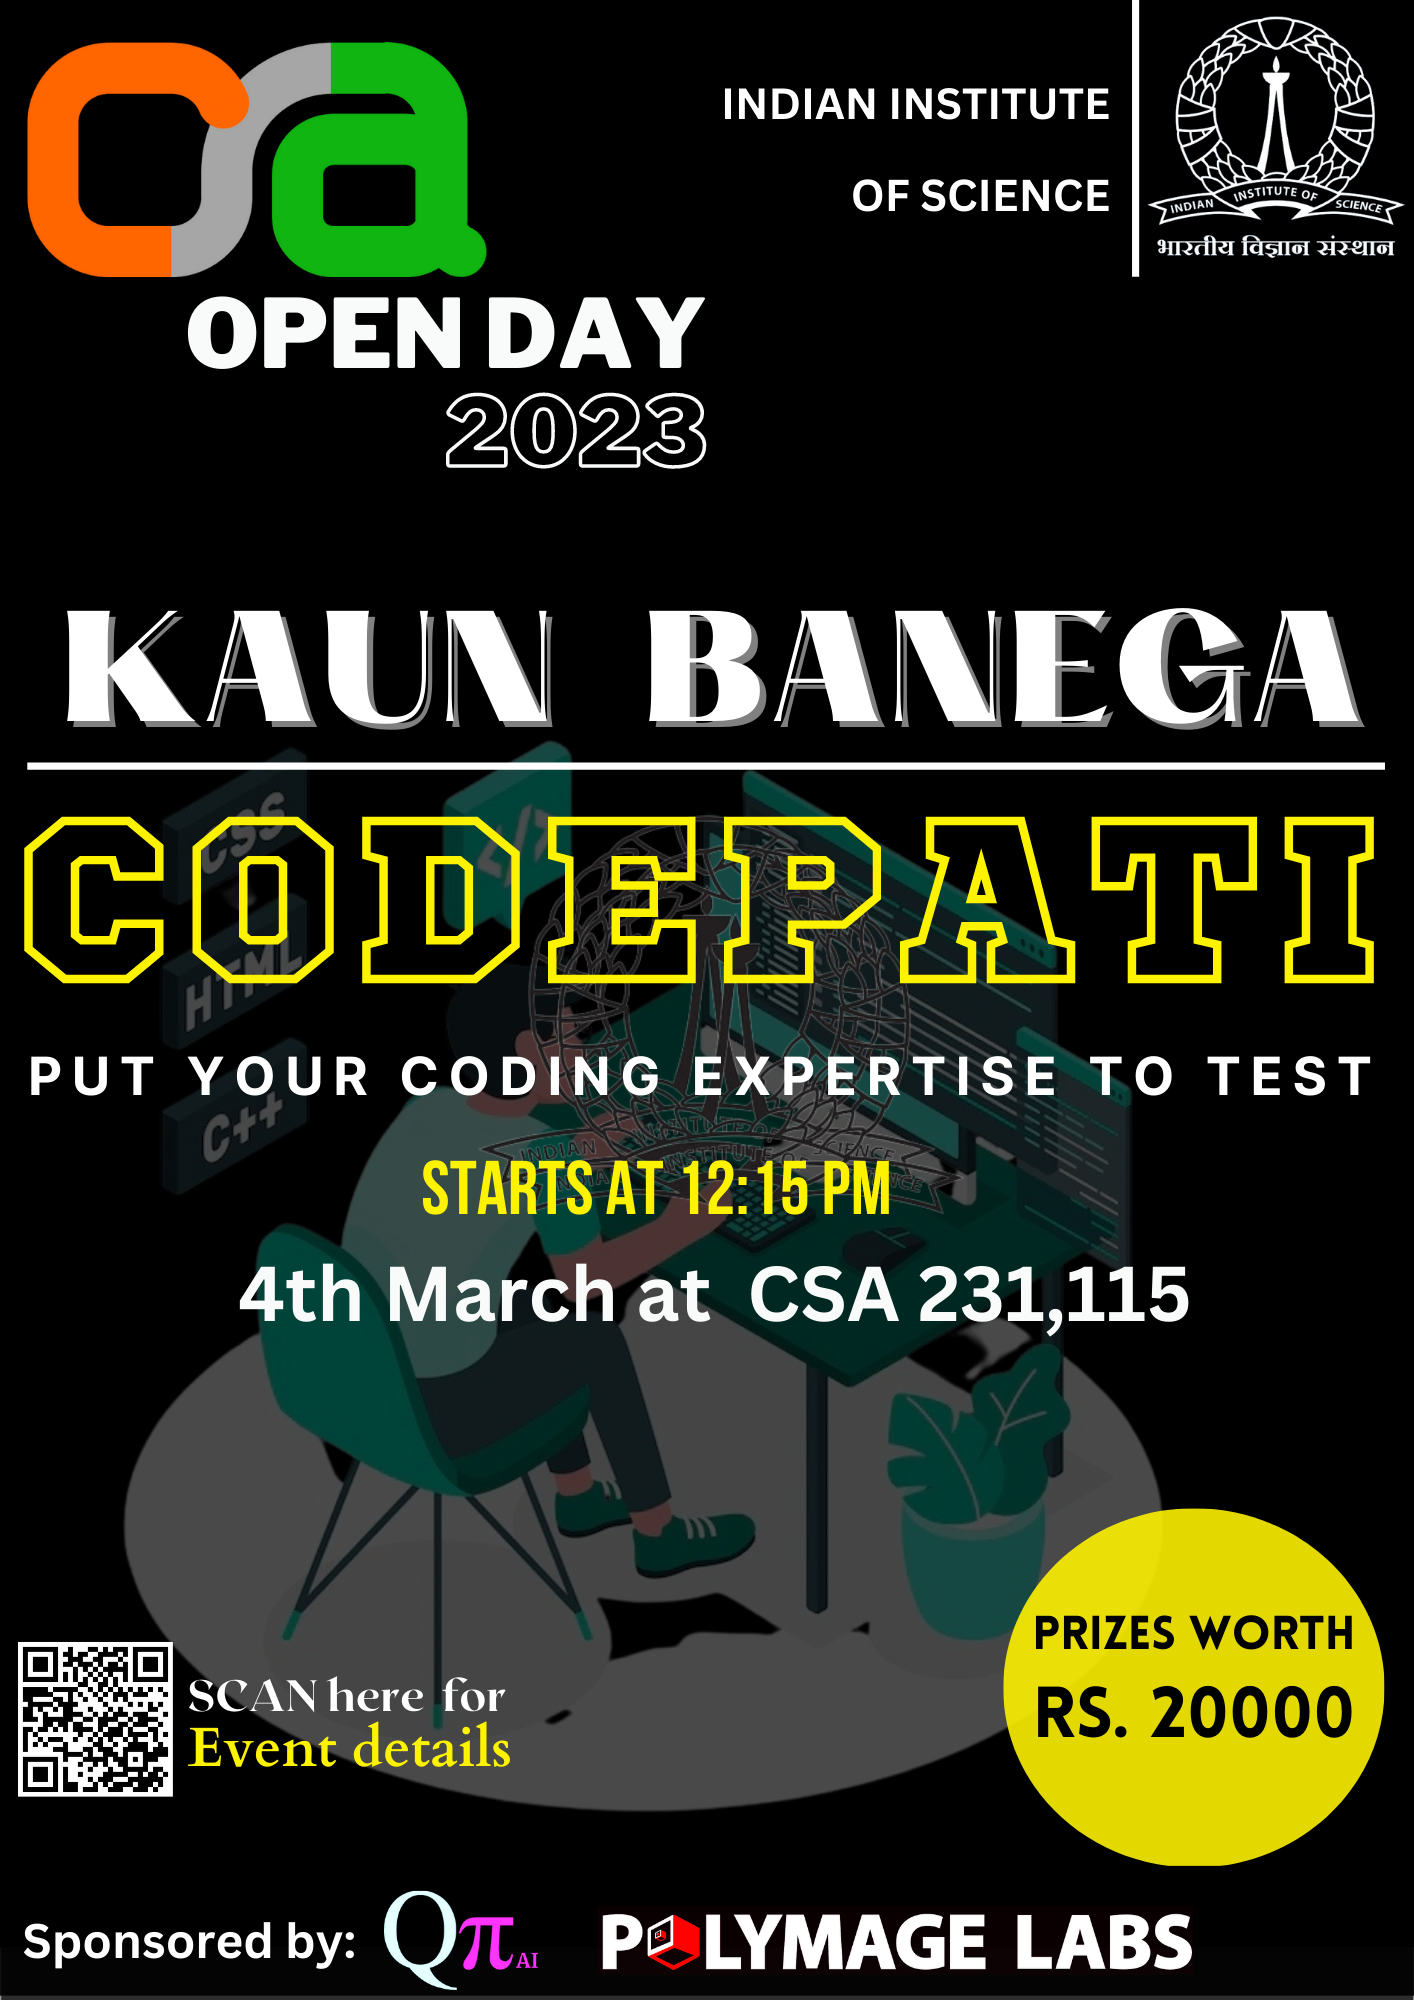
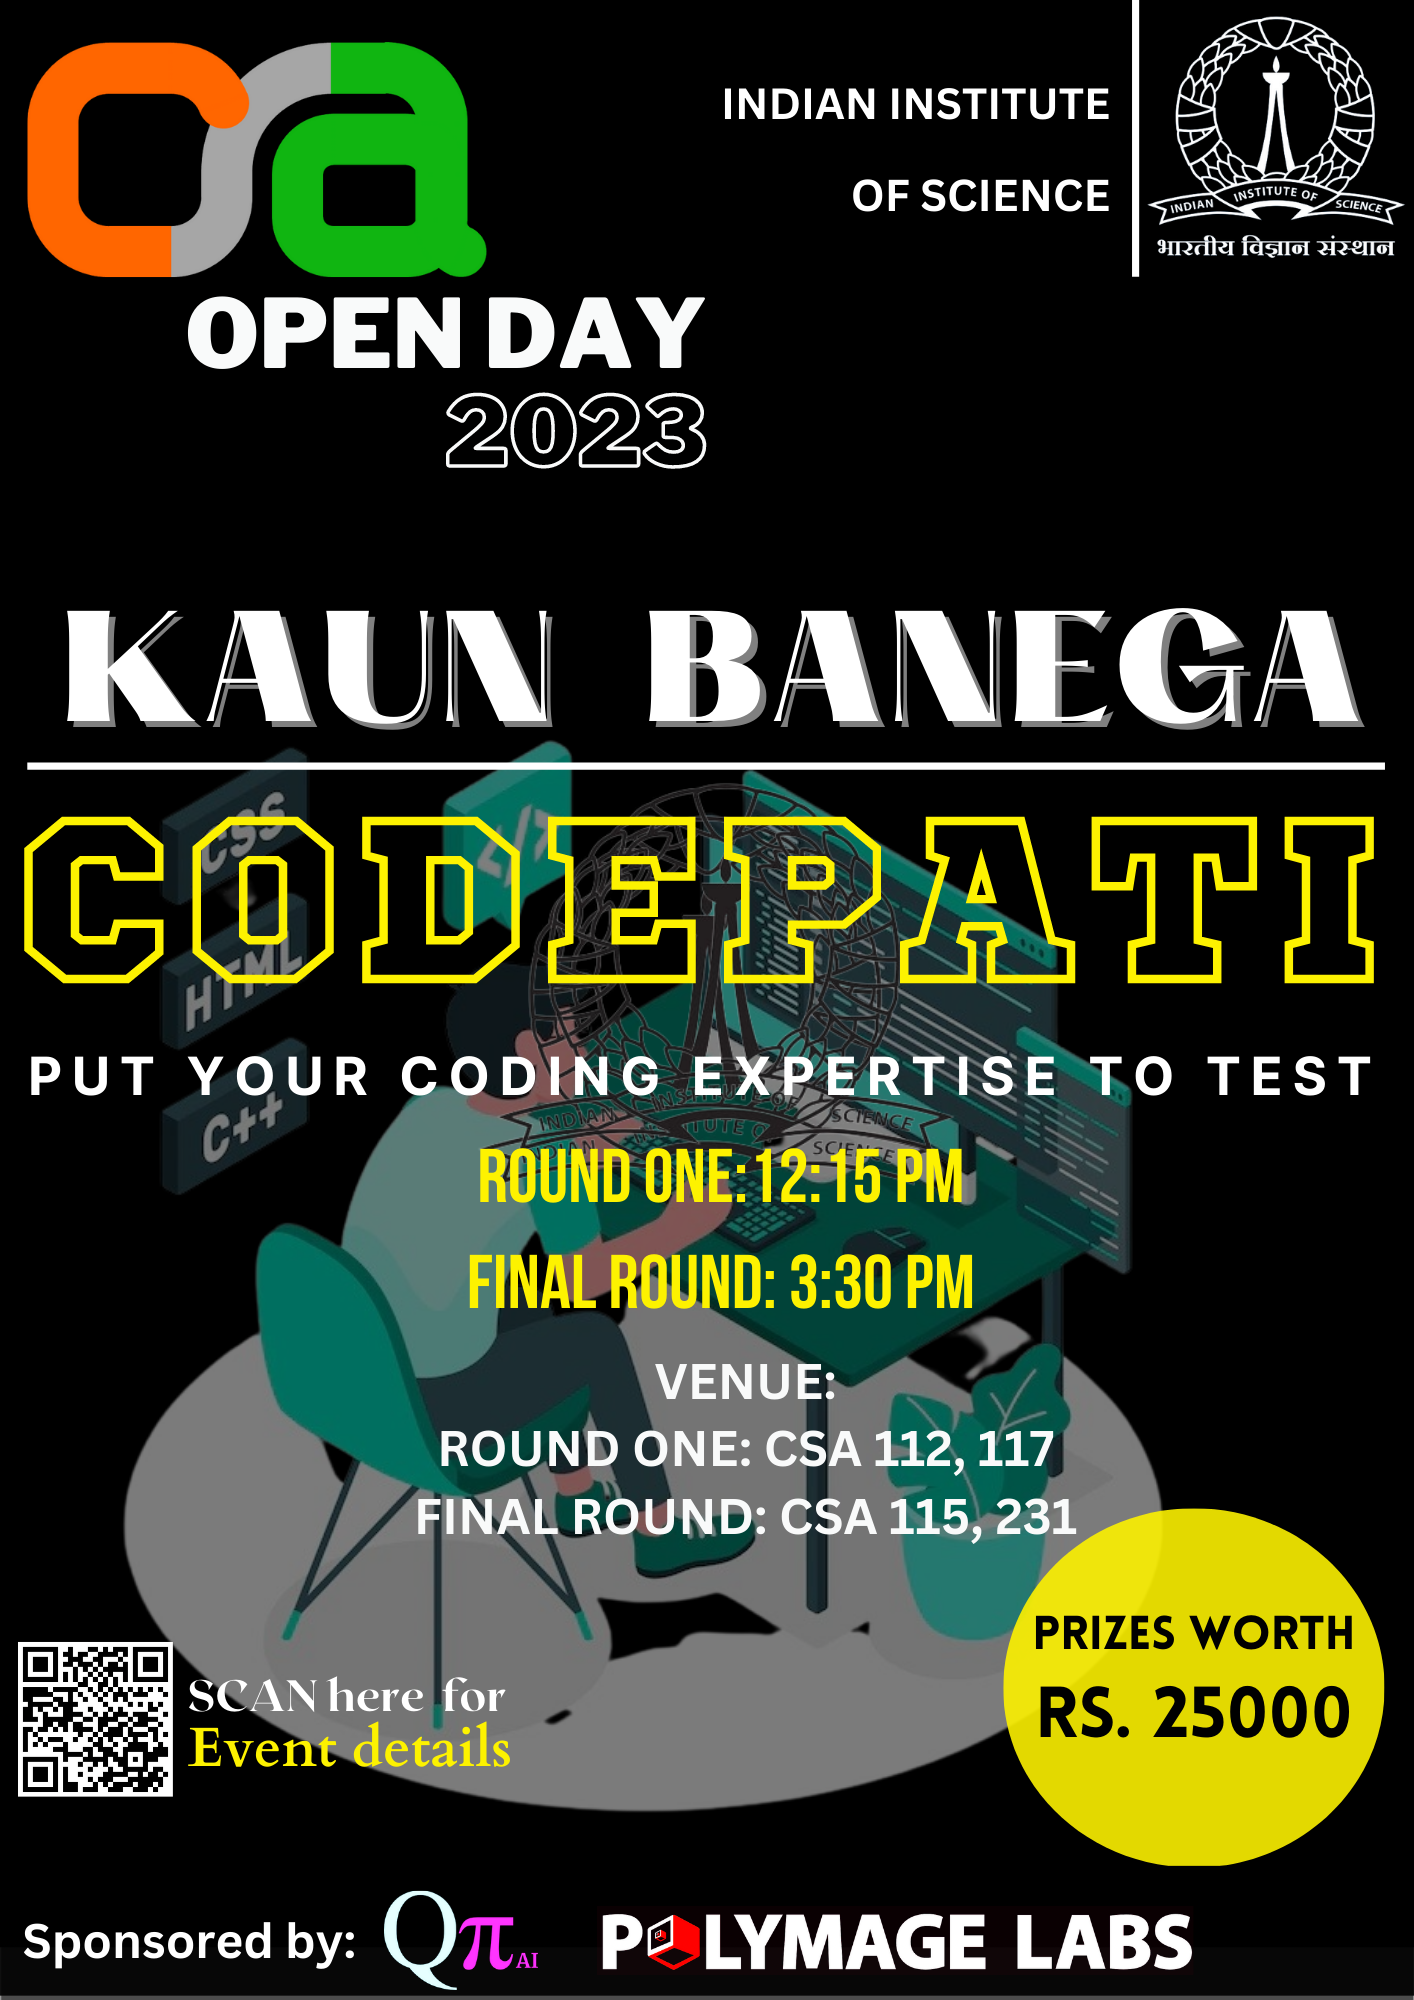
KBC codepati updated

diff --git a/index.html b/index.html
@@ -438,6 +438,11 @@
                                         <li style="text-align: left;">asdsd</li>
 
                                     </ol>-->
+                                    <button class="btn btn-primary bnput-block-level" style="background-color: rgb(103, 80, 164); border: none; width: 100%;" onclick="window.location.href = 'https://forms.gle/ShV4Sd3zAhBQ329fA';">
+                                        Register
+                                     </button>
+                                     <br/>
+                                     <br/>
                                     <h4 class="mb-4" style="text-align: left;">Rules</h4>
                                     <ul class="mb-4">
                                         <li style="text-align: left;">Participants should be enrolled in an educational institution</li>
@@ -448,15 +453,14 @@
                                     </ul>
                                     <h4 class="mb-4" style="text-align: left;">Registration</h4>
                                     <ul class="mb-4">
-                                        <li style="text-align: left;">Fill out the registration form (to be updated)</li>
+                                        <li style="text-align: left;">Fill out the registration form: <a href="https://forms.gle/ShV4Sd3zAhBQ329fA">Link</a></li>
                                         <li style="text-align: left;">Enter the FULL NAME of team members, College/School, Email IDs, and Degree/Class.</li>
                                     </ul>
                                     <h4 class="mb-4" style="text-align: left;">Qualification Round</h4>
                                     <ul class="mb-4">
-                                        <li style="text-align: left;">MCQ-based round, four marks for correct answers and -1 for wrong answers.</li>
-                                        <li style="text-align: left;">Questions will be based on DSA, time complexity analysis, and debugging.</li>
-                                        <li style="text-align: left;">We will share the quiz link with registered teams.</li>
-                                        <li style="text-align: left;">Alternatively, teams may opt to attempt the offline quiz.</li>
+                                        <li style="text-align: left;">MCQ-based round, +1 mark for correct answers and -0.33 for wrong answers.</li>
+                                        <li style="text-align: left;">Questions will be based on problem-solving, algorithms, data structures, time complexity analysis, and debugging.</li>
+                                        <li style="text-align: left;">This will be an offline round.</li>
                                         <li style="text-align: left;">Separate quiz will be held for school and college teams.</li>
                                         <li style="text-align: left;">The duration will be 45 minutes.</li>
                                         <li style="text-align: left;">15 College teams and 15 School teams will qualify for the final round.</li>
@@ -468,22 +472,38 @@
                                         <li style="text-align: left;">The problem set will have 4-6 problems</li>
                                         <li style="text-align: left;">The final rank will be decided by the total time taken to submit the first submission with the maximum score for each problem.</li>
                                         <li style="text-align: left;">Each problem will have time & memory limits for submissions.</li>
-                                        <li style="text-align: left;">Teams are allowed to use a 25-page reference code (PDF is permitted). Teams should upload the reference code in the registration form. (Form response is editable, so the teams may fill out the registration form without reference code and upload the code later).</li>
+                                        <li style="text-align: left;">Each team is allowed to carry with them one soft/hard copy of not more than 25 pages, (font size should be at least 11) that may contain code templates for reference
+                                            <br/>
+                                            <ul>
+                                                <li>This will be scrutinized and in case any violations, we will bar any team from using the same.</li>
+                                                <li>You will be allowed to copy paste code from the soft copy directly if needed.</li>
+                                                <li>Contestants can use their predefined templates.</li>
+                                            </ul>
+                                        </li>
                                         <li style="text-align: left;">Reference code must be submitted at least 1 hour before the Coding round. Teams will be allowed to download the reference code before the Coding round.</li>
+                                        <li style="text-align: left;">The ranklist will be frozen 30 minutes before contest end time, that is at 5:00 pm.</li>
+
+
                                     </ul>
                                     <h4 class="mb-4" style="text-align: left;">Prizes</h4>
                                     <h5 class="mb-4" style="text-align: left;">School Students</h5>
                                     <ul class="mb-4">
-                                        <li style="text-align: left;">1st Prize: Amazon Alexa</li>
-                                        <li style="text-align: left;">2nd Prize: Smartwatch and Earbuds</li>
-                                        <li style="text-align: left;">3rd Prize: RGB Gaming Keyboard and Mouse</li>
+                                        <li style="text-align: left;">1st Prize: ₹ 5000 Amazon Pay Gift Card</li>
+                                        <li style="text-align: left;">2nd Prize: ₹ 3000 Amazon Pay Gift Car</li>
+                                        <li style="text-align: left;">3rd Prize: ₹ 2000 Amazon Pay Gift Car</li>
                                     </ul>
-                                    <h5 class="mb-4" style="text-align: left;">College Students</h5>
+                                    <h5 class="mb-4" style="text-align: left;">Common Ranklist</h5>
                                     <ul class="mb-4">
                                         <li style="text-align: left;">1st Prize: ₹ 7000 Amazon Pay Gift Card</li>
-                                        <li style="text-align: left;">2nd Prize: Amazon Alexa</li>
-                                        <li style="text-align: left;">3rd Prize: Smartwatch and Earbuds</li>
+                                        <li style="text-align: left;">2nd Prize: ₹ 5000 Amazon Pay Gift Car</li>
+                                        <li style="text-align: left;">3rd Prize: ₹ 3000 Amazon Pay Gift Car</li>
                                     </ul>
+                                    <h4 class="mb-4" style="text-align: left;">Contact</h4>
+                                    <ul class="mb-4">
+                                        <li style="text-align: left;">Mayuresh : <a href="tel:8379013667">83790136676</a> </li>
+                                    </ul>
+                                
+
                                 </div>
                             </div>
                         </div>
@@ -543,19 +563,19 @@
                                         <li style="text-align: left;">No registration is required; you can directly walk in to attempt the quiz.</li>
                                     </ul>
                                     <h4 class="mb-4" style="text-align: left;">Prizes</h4>
-                                    <h5 class="mb-4" style="text-align: left;">Level Young Scientists</h5>
+                                    <h6 class="mb-4" style="text-align: left;">Level Young Scientists</h6>
                                     <ul class="mb-4">
                                         <li style="text-align: left;">1st Prize: IISc Backpack</li>
                                         <li style="text-align: left;">2nd Prize: IISc Thermal bottle</li>
                                         <li style="text-align: left;">3rd Prize: ISc Roller pen/IISc notepad</li>
                                     </ul>
-                                    <h5 class="mb-4" style="text-align: left;">Level Thinkers</h5>
+                                    <h6 class="mb-4" style="text-align: left;">Level Thinkers</h6>
                                     <ul class="mb-4">
                                         <li style="text-align: left;">1st Prize: Oneplus nord Buds</li>
                                         <li style="text-align: left;">2nd Prize: Redmi-smart band</li>
                                         <li style="text-align: left;">3rd Prize: IISc keychain + Pendrive</li>
                                     </ul>
-                                    <h5 class="mb-4" style="text-align: left;">Level Puzzle Masters</h5>
+                                    <h6 class="mb-4" style="text-align: left;">Level Puzzle Masters</h6>
                                     <ul class="mb-4">
                                         <li style="text-align: left;">1st Prize: Amazon echo dot</li>
                                         <li style="text-align: left;">2nd Prize: Cosmic-byte mechanical keyboard</li>
@@ -563,7 +583,7 @@
                                     </ul>
                                     <h4 class="mb-4" style="text-align: left;">Contact</h4>
                                     <ul class="mb-4">
-                                        <li style="text-align: left;">Nikhil Dhama : <a href="tel:+919599693846">+91 9599693846</a> </li>
+                                        <li style="text-align: left;">Nikhil Dhama : <a href="tel:9599693846">9599693846</a> </li>
                                         <li style="text-align: left;">Rohit Panda</li>
                                         <li style="text-align: left;">Meenaly Yadav</li>
                                         <li style="text-align: left;">Sai Teja </li>
@@ -612,6 +632,10 @@
                                         <li style="text-align: left;">There will be separate sessions.</li>
                                         <li style="text-align: left;">To participate in the event, you must possess an ID card.</li>
                                     </ul>
+                                    <h4 class="mb-4" style="text-align: left;">Contact</h4>
+                                    <ul class="mb-4">
+                                        <li style="text-align: left;">Burhan : <a href="tel:8989669910">8989669910</a> </li>
+                                    </ul>
 
                                 </div>
                             </div>
@@ -647,7 +671,7 @@
                                         <h4 class="mb-4" style="text-align: left;">Description</h4>
                                         <ul class="mb-4">
                                             <li style="text-align: left;" >A network treasure hunt game is an online game that requires players to solve a series of puzzles and clues to uncover a hidden treasure or object.</li>
-                                            <li style="text-align: left;">Players may work in teams or individually to decode messages, solve riddles, and follow clues that are scattered throughout different websites or online platforms.</li>
+                                            <li style="text-align: left;">It is a team event where the team has to decode messages, solve riddles, and follow clues that are scattered throughout different websites or online platform.</li>
                                             <li style="text-align: left;">As players progress through the game, they may encounter challenges that require them to collaborate and communicate effectively with their team members, further enhancing the team-building aspect of the game.</li>
                                         </ul>
 
@@ -662,6 +686,10 @@
                                         <ul class="mb-4">
                                             <li style="text-align: left;">Registration through google form, registration closes at 2pm on 4th march.</li>
                                             <li style="text-align: left;">Registration open to all</li>
+                                        </ul>
+                                        <h4 class="mb-4" style="text-align: left;">Contact</h4>
+                                        <ul class="mb-4">
+                                            <li style="text-align: left;">Arman : <a href="tel:8299289646">8299289646</a> </li>
                                         </ul>
                                     </div>
                                 </div>
@@ -693,6 +721,10 @@
                                             <i class="fas fa-xmark fa-fw"></i>
                                             Close Window
                                         </button>-->
+                                        <h4 class="mb-4" style="text-align: left;">Contact</h4>
+                                        <ul class="mb-4">
+                                            <li style="text-align: left;">Ankit Singh : <a href="tel:9004277050">9004277050</a> </li>
+                                        </ul>
                                     </div>
                                 </div>
                             </div>
@@ -722,6 +754,10 @@
                                             <i class="fas fa-xmark fa-fw"></i>
                                             Close Window
                                         </button>-->
+                                        <h4 class="mb-4" style="text-align: left;">Contact</h4>
+                                        <ul class="mb-4">
+                                            <li style="text-align: left;">Ayush Sawarni : <a href="tel:7737208771">7737208771</a> </li>
+                                        </ul>
                                     </div>
                                 </div>
                             </div>
@@ -797,6 +833,15 @@
                                             <i class="fas fa-xmark fa-fw"></i>
                                             Close Window
                                         </button>-->
+                                        <h4 class="mb-4" style="text-align: left;">Description</h4>
+                                        <ul class="mb-4">
+                                            <li style="text-align: left;">Every hour (starting from 10 o'clock), we will be displaying a puzzle on the screens available on each floor. You are required to solve it and submit the answer via a form.</li>
+                                            <li style="text-align: left;">QR code for the form will be available on each floor.</li>
+                                            <li style="text-align: left;">New problems will be available at 10 AM, 11 AM, 12 PM, 2 PM, 3 PM, 4 PM, and 5 PM.</li>
+                                            <li style="text-align: left;">Each problem will be a logical puzzle.</li>
+
+                                        </ul>
+
                                     </div>
                                 </div>
                             </div>
